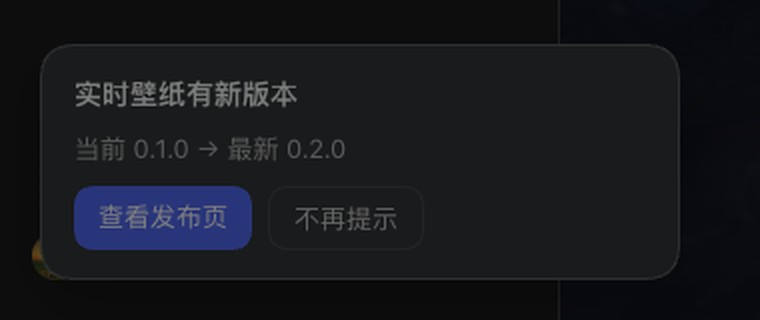
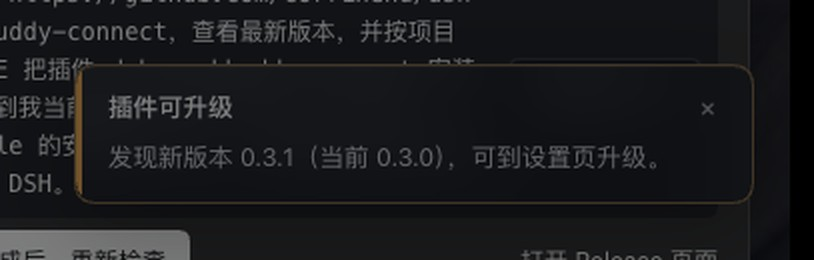
docs: 更新提醒与热更新说明及截图

diff --git a/README.md b/README.md
@@ -13,7 +13,8 @@
 - **可调节外观**：模糊、强度、面板不透明度、压暗、饱和度五个参数，实时生效
 - **深色/浅色主题自适应**：两种主题使用不同的默认压暗值，切换主题立即跟随
 - **弹窗不受影响**：设置、对话框等浮层保持不透明，不会因为背景变透明而看不清文字
-- **新版本提醒**：后台每 6 小时检查一次 GitHub Release，有新版时左下角弹出提醒卡片，设置页导航项带标记；点「不再提示」后该版本不再打扰，下个版本仍会提醒
+- **新版本提醒**：后台每 6 小时检查一次 GitHub Release，有新版时右下角弹出提示，14 秒后自动消失，设置页导航项带标记
+- **一键热更新**：在设置页点「有新版本可用」直接安装，成功后立即生效，不用重启、不用敲命令
 
 ## 界面
 
@@ -21,11 +22,11 @@
 
 ![界面效果](docs/screenshot-main.jpg)
 
-「设置 → 实时壁纸外观」：五个滑块实时调节，并可一键恢复默认、检查更新。
+「设置 → 实时壁纸外观」：五个滑块实时调节，并可一键恢复默认、检查更新；有新版时「有新版本可用」可点击直接升级。
 
 ![外观设置](docs/screenshot-settings.jpg)
 
-有新版时的提醒卡片（左下角，不遮挡输入框与右下角的其它通知）：
+有新版时的提示（右下角，只说去设置页升级，14 秒后自动消失）：
 
 ![新版本提醒](docs/screenshot-update.jpg)
 
